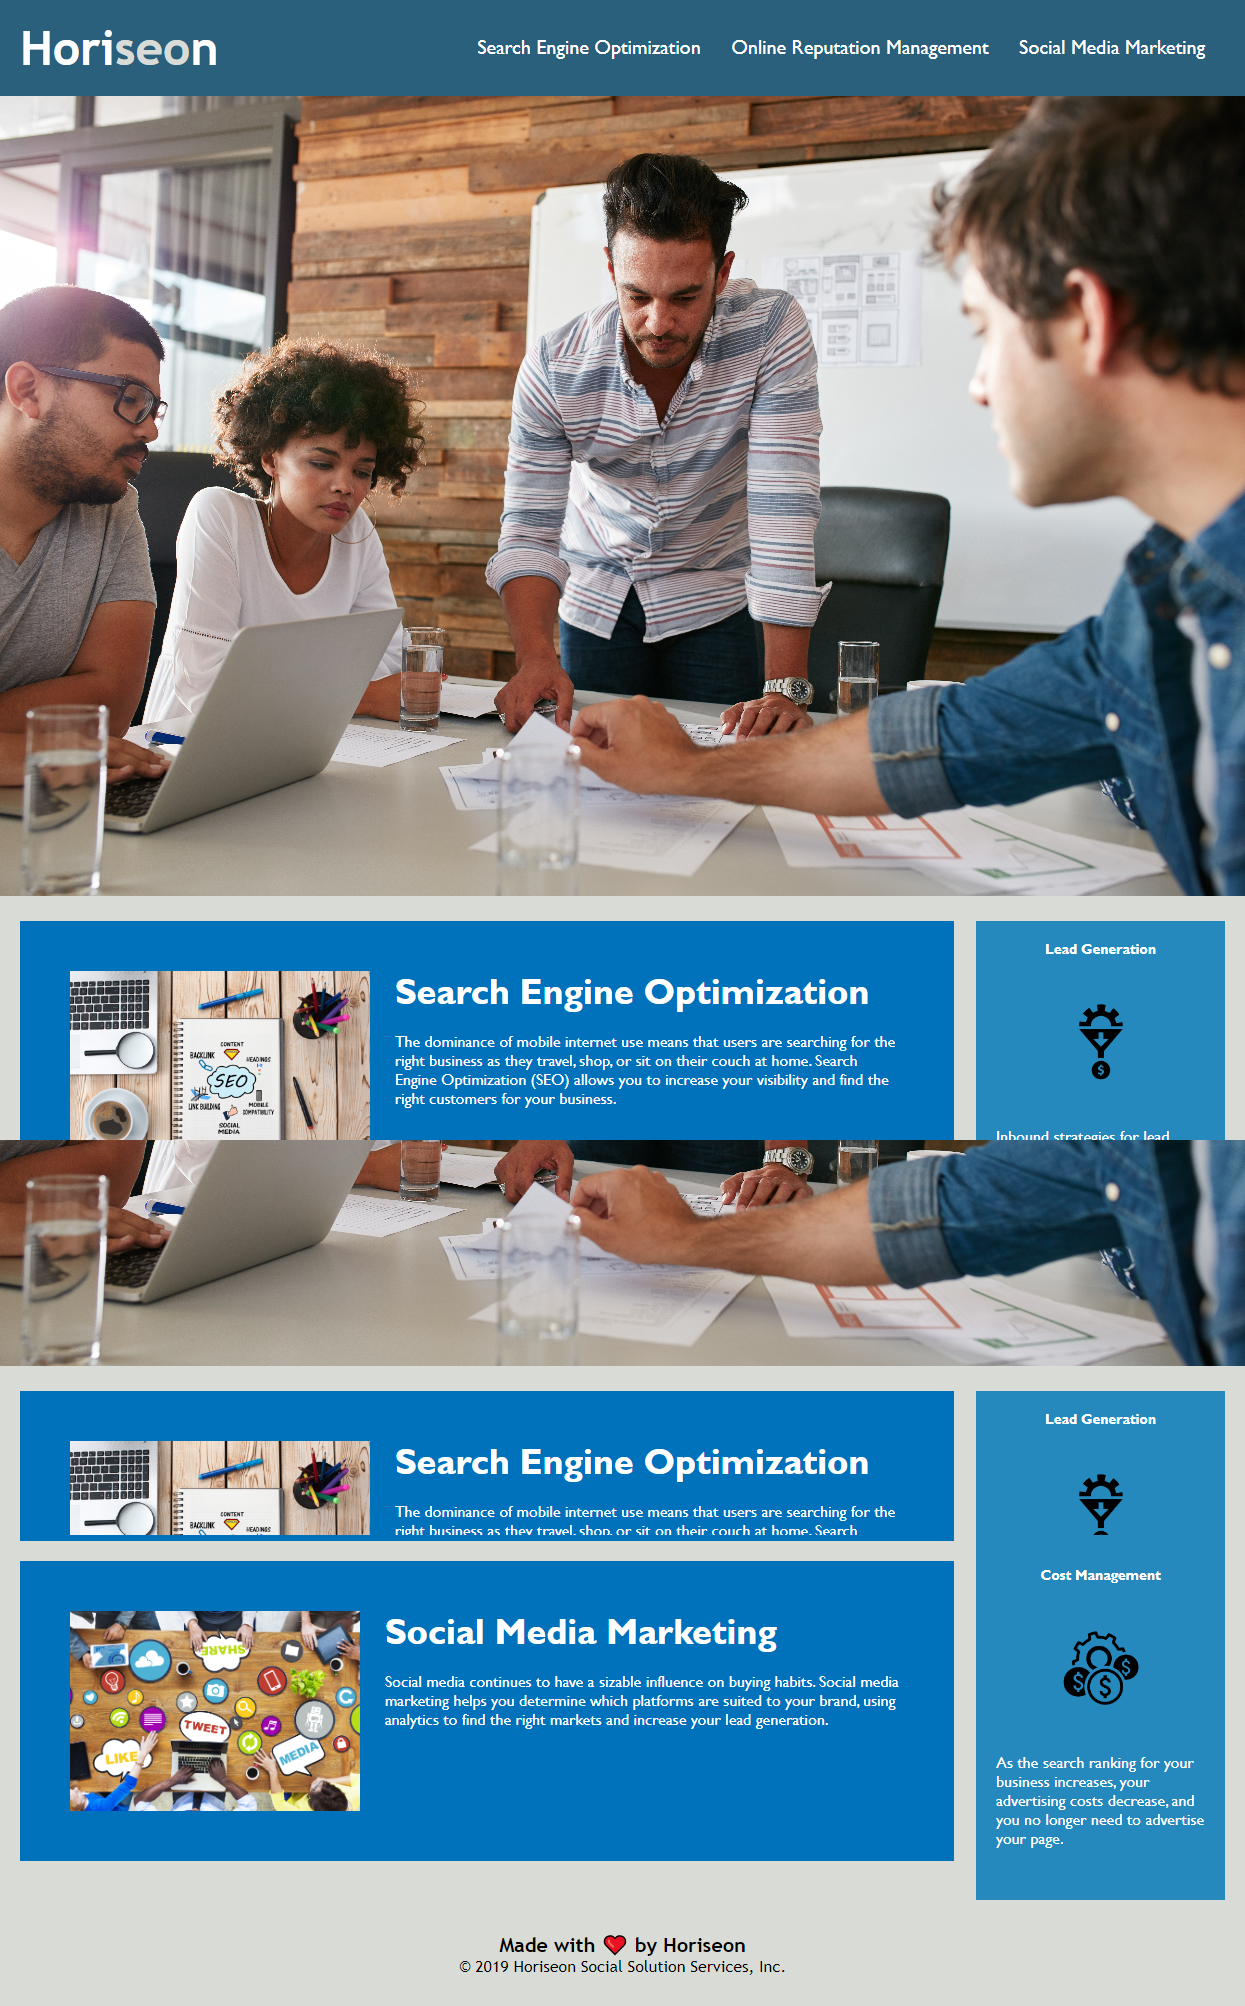
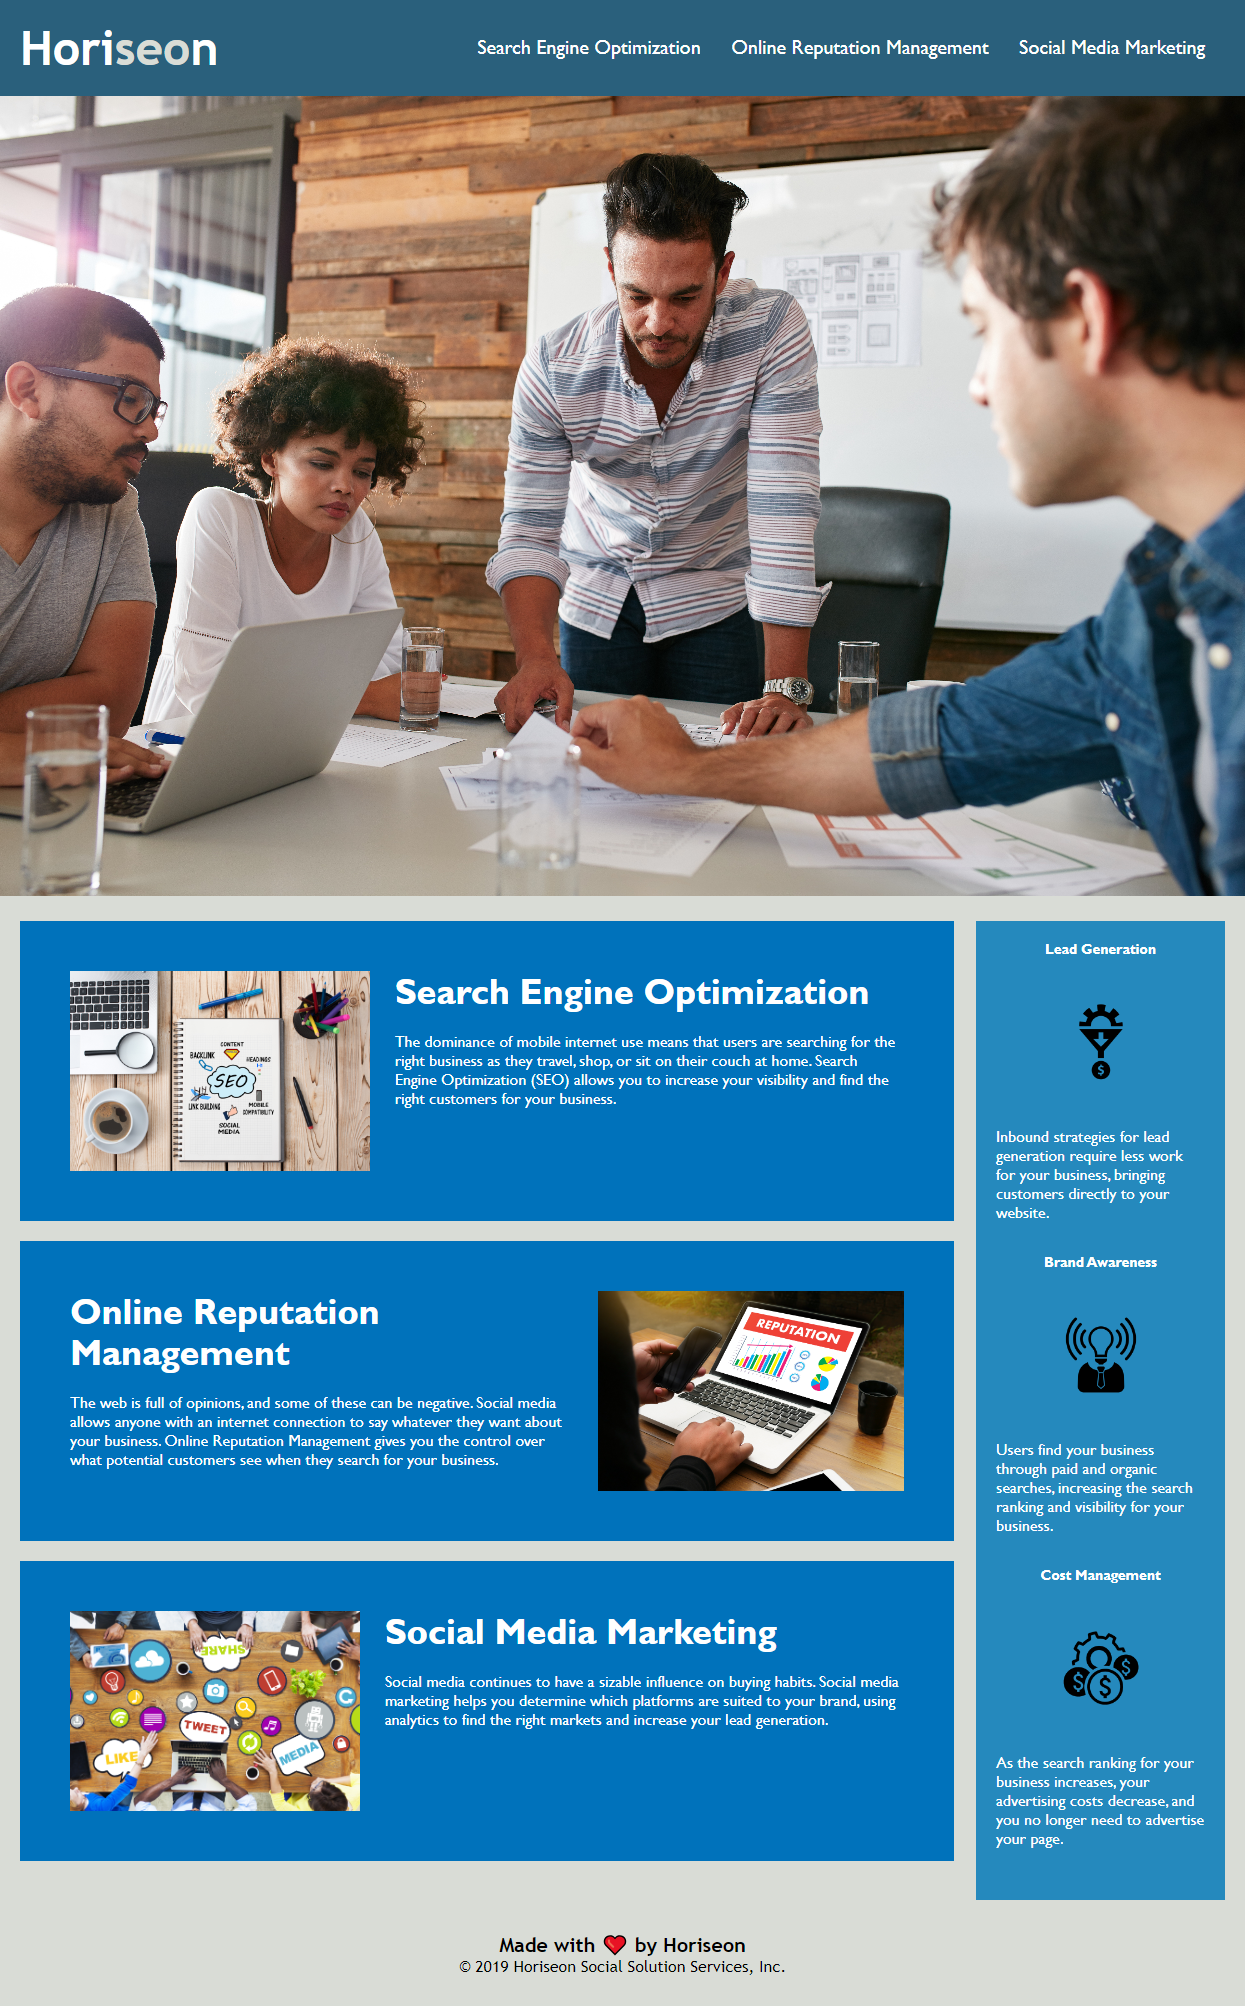
Replaced broken screenshot with more clear one and added deployed website URL to README

Changed region(s): [[0.0, 0.5563, 1.0, 0.7727]]

diff --git a/README.md b/README.md
@@ -13,7 +13,7 @@ This refactor project is to update the Horiseon webpage to now be more accessibl
 
 ## Usage
 
-Access the website here: [link here]
+Access the website here: [https://annie-mcelroy.github.io/horiseon-accessibility-refactor/#social-media-marketing]
 ![Horiseon Social Solutions Services Webpage](assets/images/screenshot.png)
 
 
